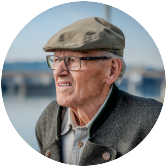
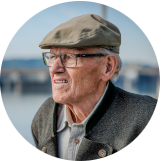
ajustes

diff --git a/verificador/script.js b/verificador/script.js
@@ -1,3 +1,39 @@
+
 function verificar() {
-    
+    var data = new Date()
+    var ano = data.getFullYear()
+    var fano = document.getElementById("txtano")
+    var res = document.querySelector('div#res')
+
+    if (fano.value.length === 0 || Number(fano.value) > ano) {
+        window.alert('erro verifique os dados e tente novamente') 
+    } else {
+        var fsex = document.getElementsByName('radsex')
+        var idade = ano - Number(fano.value)
+        var genero =''
+        var img = document.createElement('img')
+        img.setAttribute('id', 'foto')
+
+        if(fsex[0].checked) {
+            genero = 'homem'
+            if(idade >= 0 && idade < 15) {
+                img.setAttribute('src', 'criancahomem.png')
+            } else if (idade < 40) {
+                img.setAttribute('src', 'homem.png')
+            } else {
+                img.setAttribute('src', 'homem-velho.png')
+            }
+        } else if (fsex[1].checked) {
+            genero = 'feminino'
+            if(idade >= 0 && idade < 15) {
+                img.setAttribute('src', 'menina.png')
+            } else if (idade < 40) {
+                img.setAttribute('src', 'mulher.png')
+            } else {
+                img.setAttribute('src', 'mulher-idosa.png')
+            }
+        }
+        res.innerHTML = `detectamos ${genero} com ${idade} anos`
+        res.appendChild(img) //faz mostrar a imagem
+    }
 }

diff --git a/verificador/index.html b/verificador/index.html
@@ -21,7 +21,7 @@
                 <input type="radio" name="radsex" id="fem">
                 <label for="fem">feminino</label>
             <p>
-                <input type="button" value="verificar" onclick="verificar()">
+                <input type="button" value="verificar" onclick= "verificar()">
             </p>
         </div>
         <div id="res">
